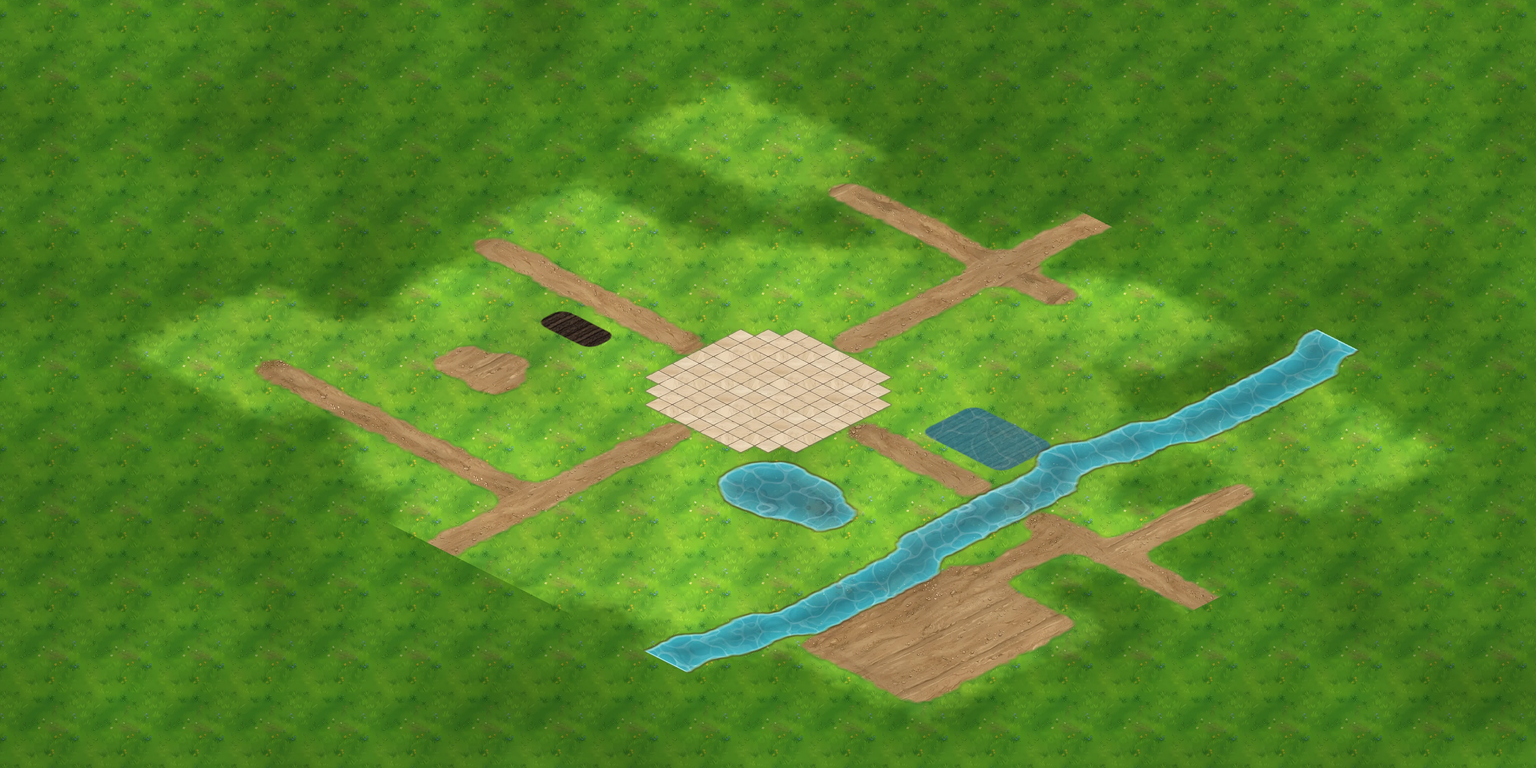
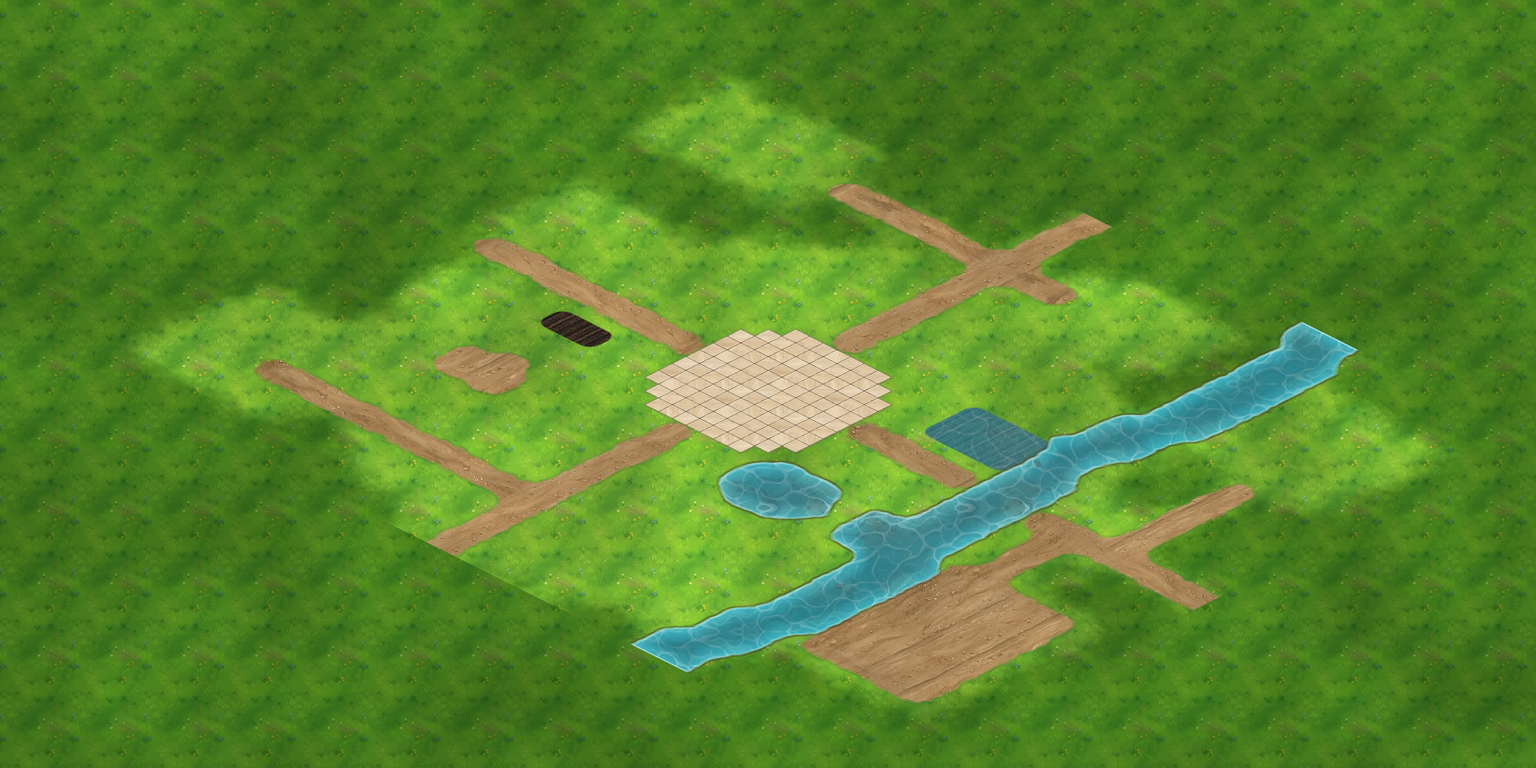
Village: waterside sala by the stream, wider stream under the bridge
The sala with its boat moves from the fish pond to a little inlet on the
stream's west bank, and the stream is 4 tiles wide so the arched Thai
bridge spans it from bank to bank.

Claude-Session: https://claude.ai/code/session_01LmgoJifLrwNapLvBHfZunw

Changed region(s): [[0.4062, 0.4062, 0.875, 0.8438]]

diff --git a/src/core/homeLayout.ts b/src/core/homeLayout.ts
@@ -4,52 +4,52 @@
 //   H  blocks (house, tent, crates...)   F  wooden fence   K  stone wall
 //   S  soil plot   P  rice paddy   O  fish pond   U  fountain   D  pier in the pond
 export const HOME_ROWS: readonly string[] = [
-  'TTTTTTTTTTTTTTTTTTTTTTTTTTTTTTT::TTTTTTTTTTTTTTTWWWTTTTTTTTTTTTT',
-  'TTTTTTTTTTTTTTTTTTTTTTTTTTTTTTT::TTTTTTTTTTTTTTTWWWTTTTTTTTTTTTT',
-  'TTTTTTTTTTTTTTTTTTTTTTTTTTTTTTT::TTTTTTTTTTTTTTTTWWWTTTTTTTTTTTT',
-  'TTTTTTTT...T........TTTTTTTTTTT::TT.T.........TTTWWWTTTTTTTTTTTT',
-  'TTTTTTTT............TTTTTTTTTTT::TTT..........TTTWWW.....T....TT',
-  'TTTTTTTTT...T.......TTTTTTTTTTT::TT...........TTTWWW..T....T..TT',
-  'TTTTTTTT.........TT.:::::::::::::::::.........TTTWWWT..T......TT',
-  'TTTTTTTTT...........:::::::::::::::::....T....TTTWWW..........TT',
-  'TTTTTTTT...........TTTTTTTTTTTT::TT.T.........TTTWWW..........TT',
-  'TTTTTTTT...........TTTTTT.....T::.T.........T.TTTWWW....T.T...TT',
-  'TTTTTTTT........T...TTTTT.HHH..::......T..TTTTTTTWWW.....T....TT',
-  'TTTTTTTTTTTTTTTTTTTTTTTTT.HHH..::..B........TTTTTWWW........T.TT',
-  'TTTTTTTTTTTTTTTTTRTTT.T...HHH..::..............TTWWW.T...T....TT',
-  'TTTTTTTTTTTTTTTTTTTT.T.........::.....HHH...HH.TWWWT..T.......TT',
-  'TTTTTTTTTTTTTTTTTTTTT..HHH.....::.....HHH...HH..WWWTTTTT::TTTTTT',
-  'TTTTTTTTTTTTTTTTTTT....HHH.....::.....HHH.H.....WWW.TTTT::TTTTTT',
-  'TTTTTTTTTT........T..HHHHH.....::...............WWWT.TTT::TTTTTT',
-  'TTTTTTTTTT.....................::......HH......WWW.TTTTT::TTTTTT',
+  'TTTTTTTTTTTTTTTTTTTTTTTTTTTTTTT::TTTTTTTTTTTTTTWWWWTTTTTTTTTTTTT',
+  'TTTTTTTTTTTTTTTTTTTTTTTTTTTTTTT::TTTTTTTTTTTTTTWWWWTTTTTTTTTTTTT',
+  'TTTTTTTTTTTTTTTTTTTTTTTTTTTTTTT::TTTTTTTTTTTTTTTWWWWTTTTTTTTTTTT',
+  'TTTTTTTT...T........TTTTTTTTTTT::TT.T.........TTWWWWTTTTTTTTTTTT',
+  'TTTTTTTT............TTTTTTTTTTT::TTT..........TTWWWW.....T....TT',
+  'TTTTTTTTT...T.......TTTTTTTTTTT::TT...........TTWWWW..T....T..TT',
+  'TTTTTTTT.........TT.:::::::::::::::::.........TTWWWWT..T......TT',
+  'TTTTTTTTT...........:::::::::::::::::....T....TTWWWW..........TT',
+  'TTTTTTTT...........TTTTTTTTTTTT::TT.T.........TTWWWW..........TT',
+  'TTTTTTTT...........TTTTTT.....T::.T.........T.TTWWWW....T.T...TT',
+  'TTTTTTTT........T...TTTTT.HHH..::......T..TTTTTTWWWW.....T....TT',
+  'TTTTTTTTTTTTTTTTTTTTTTTTT.HHH..::..B........TTTTWWWW........T.TT',
+  'TTTTTTTTTTTTTTTTTRTTT.T...HHH..::..............TWWWW.T...T....TT',
+  'TTTTTTTTTTTTTTTTTTTT.T.........::.....HHH...HH.WWWWT..T.......TT',
+  'TTTTTTTTTTTTTTTTTTTTT..HHH.....::.....HHH...HH.WWWWTTTTT::TTTTTT',
+  'TTTTTTTTTTTTTTTTTTT....HHH.....::.....HHH.H....WWWW.TTTT::TTTTTT',
+  'TTTTTTTTTT........T..HHHHH.....::..............WWWWT.TTT::TTTTTT',
+  'TTTTTTTTTT.....................::......HH.....WWWW.TTTTT::TTTTTT',
   'TTTTTTTTTT..HH.................::........PPPPPPWWW..TTTT::TTTTTT',
   'TTTTTTTTTT..HH.......HHH.....#######.....PPPPPPWWW...TTT::TTTTTT',
-  'TTTTTTTTTT.....H.....HHH....#########....PPPPPP.WWW.....::TTTTTT',
-  'TTTTTTTTTTR........B.HHH.H.###########...PPPPPP.WWW.....::TTTTTT',
-  'TTTTTTTTTT.................###########..........WWW.....::TTTTTT',
-  'TTTTTTTTTTT::::::::::::::::####UU#####::::::::::===:::::::::::::',
-  'TTTTTTTTTTT::::::::::::::::####UU#####::::::::::===:::::::::::::',
-  'TTTTTTTTTTTTT.....FFFFFF...###########..HH......WWW..::..TTTTTTT',
-  'TTTTTTTTTTTTT.....FSSSS....###########..HH..B...WWW..::TTTTTTTTT',
-  'TTTTTTTTTTTR..HH..FSSSS....###########..........WWW..::T..TTTTTT',
-  'TTTTTTTTTTT...HH..FFFFFF....#########...........WWW..::.TTTTTTTT',
-  'TTTTTTTTTTTT.................#######..OOOOO.....WWW..::...T...TT',
-  'TTTTTTTTTTTT..R................::....OOOOODDD...WWW.:::::::::.TT',
-  'TTTTTTTTTTTT.....FFF::FF.......::....OOOOODDD....WWW:::::::::.TT',
-  'TTTTTTTTTTTTT....F:::::F.......::....OOOOODDD....WWW:::::::::.TT',
-  'TTTTTTTTTTTTT.T..F:::::F.......::.....OOOO....R..WWW:::::::::.TT',
-  'TTTTTTTTTTTT.....F:::::F....B..::................WWW:::::::::.TT',
-  'TTTTTT....T......FFFFFFF.......::................WWW:::::::::.TT',
-  'TTTTTTT........T..........HH...::..HHH...........WWW:::::::::.TT',
-  'TTTTTT......T......HHHHH..HH...::..HHH...HHH.....WWW:::::::::.TT',
-  'TTTTTT.............HHHHH.......::..HHH...HHH.....WWW:::::::::.TT',
-  'TTTTTT...T.T.T.....HHHHH.......::........HHH.....WWW:::::::::.TT',
-  'TTTTTT......:::::::::::::::::::::.....R..........WWW:::::::::.TT',
-  'TTTTTT....T.:::::::::::::::::::::...............WWW.:::::::::.TT',
-  'TTTTTT..........TTTT...........::...............WWW.T......T..TT',
-  'TTTTTT...........TTTT..........::..............TWWWTTTTTTTTTTTTT',
-  'TTTTTT...........TTT.T.........::..............TWWWTTTTTTTTTTTTT',
-  'TTTTTTTTTTTTTTTTTTTTTTT..T.....::.........T...TWWWTTTTTTTTTTTTTT',
-  'TTTTTTTTTTTTTTTTTTTTTTTTTTTT...::........TTTTTTWWWTTTTTTTTTTTTTT',
-  'TTTTTTTTTTTTTTTTTTTTTTTTTTTTT.T::.T.TT.T.TTTTTTWWWTTTTTTTTTTTTTT',
+  'TTTTTTTTTT.....H.....HHH....#########....PPPPPPWWWW.....::TTTTTT',
+  'TTTTTTTTTTR........B.HHH.H.###########...PPPPPPWWWW.....::TTTTTT',
+  'TTTTTTTTTT.................###########.........WWWW.....::TTTTTT',
+  'TTTTTTTTTTT::::::::::::::::####UU#####:::::::::====:::::::::::::',
+  'TTTTTTTTTTT::::::::::::::::####UU#####:::::::::====:::::::::::::',
+  'TTTTTTTTTTTTT.....FFFFFF...###########..HH.....WWWW..::..TTTTTTT',
+  'TTTTTTTTTTTTT.....FSSSS....###########..HH..B..WWWW..::TTTTTTTTT',
+  'TTTTTTTTTTTR..HH..FSSSS....###########.........WWWW..::T..TTTTTT',
+  'TTTTTTTTTTT...HH..FFFFFF....#########..........WWWW..::.TTTTTTTT',
+  'TTTTTTTTTTTT.................#######..OOOOO..WWWWWW..::...T...TT',
+  'TTTTTTTTTTTT..R................::....OOOOOO..DDDWWW.:::::::::.TT',
+  'TTTTTTTTTTTT.....FFF::FF.......::....OOOOOOO.DDDWWWW:::::::::.TT',
+  'TTTTTTTTTTTTT....F:::::F.......::....OOOOOO..DDDWWWW:::::::::.TT',
+  'TTTTTTTTTTTTT.T..F:::::F.......::.....OOOO......WWWW:::::::::.TT',
+  'TTTTTTTTTTTT.....F:::::F....B..::...............WWWW:::::::::.TT',
+  'TTTTTT....T......FFFFFFF.......::...............WWWW:::::::::.TT',
+  'TTTTTTT........T..........HH...::..HHH..........WWWW:::::::::.TT',
+  'TTTTTT......T......HHHHH..HH...::..HHH...HHH....WWWW:::::::::.TT',
+  'TTTTTT.............HHHHH.......::..HHH...HHH....WWWW:::::::::.TT',
+  'TTTTTT...T.T.T.....HHHHH.......::........HHH....WWWW:::::::::.TT',
+  'TTTTTT......:::::::::::::::::::::.....R.........WWWW:::::::::.TT',
+  'TTTTTT....T.:::::::::::::::::::::..............WWWW.:::::::::.TT',
+  'TTTTTT..........TTTT...........::..............WWWW.T......T..TT',
+  'TTTTTT...........TTTT..........::..............WWWWTTTTTTTTTTTTT',
+  'TTTTTT...........TTT.T.........::..............WWWWTTTTTTTTTTTTT',
+  'TTTTTTTTTTTTTTTTTTTTTTT..T.....::.........T...WWWWTTTTTTTTTTTTTT',
+  'TTTTTTTTTTTTTTTTTTTTTTTTTTTT...::........TTTTTWWWWTTTTTTTTTTTTTT',
+  'TTTTTTTTTTTTTTTTTTTTTTTTTTTTT.T::.T.TT.T.TTTTTWWWWTTTTTTTTTTTTTT',
 ];

diff --git a/src/art/villageLayout.ts b/src/art/villageLayout.ts
@@ -97,7 +97,7 @@ const PLACED: readonly VillageProp[] = [
   onFootprint('bamboohut', 14, 27, 2, 2, 70, { fade: true, flip: true }, 4),
   onFootprint('bamboohut', 26, 36, 2, 2, 70, { fade: true }, 4),
   onFootprint('thaisala', 40, 25, 2, 2, 70, { fade: true }, 4),
-  onFootprint('pier', 42, 30, 3, 3, 100, { fade: true, shadow: 0 }, 6),
+  onFootprint('pier', 45, 30, 3, 3, 100, { fade: true, flip: true, shadow: 0 }, 6),
   onFootprint('tent', 12, 18, 2, 2, 70, { fade: true }, 4),
   onFootprint('bedroll', 15, 20, 1, 1, 34, {}, 2),
   onFootprint('fountain', 31, 23, 2, 2, 66, {}, 4),

diff --git a/tools/village/layout.py b/tools/village/layout.py
@@ -66,15 +66,17 @@ for (x, y) in [(27, 19), (37, 19), (27, 29), (37, 29), (28, 19), (27, 20), (36, 
     put(x, y, '.')
 rect(31, 23, 32, 24, 'U')
 
-# stream east of the village, the east road crosses it on the stone bridge
+# stream east of the village, 4 tiles wide to match the arched Thai bridge on the east road
 for y in range(MH):
-    sx = 48 + round(math.sin(y * 0.22) * 1.2)
+    sx = 47 + round(math.sin(y * 0.22) * 1.2)
     if 20 <= y <= 27:
-        sx = 48
-    for x in range(sx, sx + 3):
+        sx = 47
+    for x in range(sx, sx + 4):
         put(x, y, 'W')
-rect(47, 23, 51, 24, '=')
-put(47, 23, ':'), put(47, 24, ':'), put(51, 23, ':'), put(51, 24, ':')
+rect(47, 23, 50, 24, '=')
+# a little inlet on the west bank where the waterside sala with its boat stands
+rect(45, 29, 46, 32, 'W')
+rect(45, 30, 47, 32, 'D')
 
 # smithy (with the woodpile beside it), inn with crates, the kitchen fire in front of the inn
 rect(23, 14, 25, 16, 'H')
@@ -109,13 +111,11 @@ rect(17, 31, 23, 35, 'F')
 rect(18, 32, 22, 34, ':')
 put(20, 31, ':'), put(21, 31, ':')
 
-# fish pond with a jetty from the west bank
+# fish pond south-east of the plaza
 for y in range(28, 35):
     for x in range(36, 45):
         if ((x + 0.5 - 40.2) / 3.4) ** 2 + ((y + 0.5 - 31.4) / 2.7) ** 2 < 1:
             put(x, y, 'O')
-# waterside sala with its boat on the pond's east side: stands in the water ('D': solid, painted as water)
-rect(42, 30, 44, 32, 'D')
 
 # rice paddy north-east, between the inn and the stream
 rect(41, 18, 46, 21, 'P')
@@ -126,7 +126,7 @@ rect(12, 18, 13, 19, 'H')
 put(15, 20, 'H')
 
 # rocks at the forest edge and around the camp
-for (x, y) in [(10, 21), (11, 27), (17, 12), (25, 37), (46, 33), (14, 30), (27, 10), (38, 40), (20, 39)]:
+for (x, y) in [(10, 21), (11, 27), (17, 12), (25, 37), (14, 30), (27, 10), (38, 40), (20, 39)]:
     put(x, y, 'R')
 # a few bushes and trees inside the village
 for (x, y) in [(26, 12), (35, 11), (19, 21), (44, 26), (28, 34), (35, 36), (16, 26)]:
